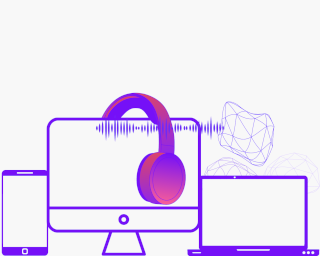
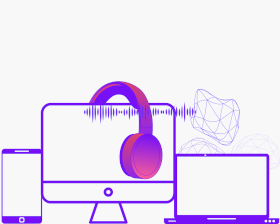
Update

diff --git a/index.html b/index.html
@@ -20,15 +20,21 @@
 
 				<nav class="nav1">
 						<ul>
-							<li class="active">
-								<a href="#full-header">Início</a>
-							</li>
-							<li>
-								<a href="#container-sobre">Sobre</a>
-							</li>
-							<li>
-								<a href="#container-portfolio">Portfólio</a>
-							</li>
+							<a href="#full-header">
+								<li>
+									Início
+								</li>
+							</a>
+							<a href="#container-sobre">
+								<li>
+									Sobre
+								</li>
+							</a>
+							<a href="#container-portfolio">
+								<li>
+									Portfólio
+								</li>
+							</a>
 						</ul>
 
 						<input id="menu-toggle" type="checkbox" />
@@ -36,15 +42,22 @@
 						<div class='menu-button'></div>
 					</label>
 						<ul class="menu">
-						<li>
-							<a href="#full-header">Início</a>
-						</li>
-						<li>
-							<a href="#container-sobre">Sobre</a>
-						</li>
-						<li>
-							<a href="#container-portfolio">Portfólio</a>
-						</li>
+						<a href="#full-header">
+							<li>
+								Início
+							</li>
+						</a>
+						<a href="#container-sobre">
+							<a href="#container-sobre">	
+							<li>
+								Sobre
+							</li>
+						</a>
+						<a href="#container-portfolio"></a>
+							<li>
+								Portfólio
+							</li>
+						</a>
 						</ul>
 				</nav>
 		</header>
@@ -57,13 +70,13 @@
 		</div>
 		<div class="div-img-principal">
 			<picture class="divImgTop">
-				<source media="(max-width: 500px)" srcset="images/dev-cortada-mobile.png" type="image/jpg">
+				<source media="(max-width: 570px)" srcset="images/dev-cortada-mobile.png" type="image/jpg">
 				<img src="images/dev-cortada.png" alt="" class="imgTop">
 			</picture>
 		</div>
 		<div class="eletronicos">
 			<picture class="divImgTop">
-				<source media="(max-width: 570px)" srcset="images/eletronicos1-cortada.png" type="image/jpg">
+				<source media="(max-width: 650px)" srcset="images/eletronicos1-cortada.png" type="image/jpg">
 				<img src="images/eletronicos1.png" alt="" class="imgTop">
 			</picture>
 		</div>

diff --git a/styles/styles.css b/styles/styles.css
@@ -65,10 +65,9 @@ header nav ul li {
 	
 }
 
-header nav ul li a {
+header nav ul a {
 	text-decoration: none;
 	color: #7510F7;
-	font-size: 18px;
 }
 
 header nav ul li.menu-dropdown ul {
@@ -79,9 +78,6 @@ header nav ul li:hover{
 	background-color: #e9e9e9;
 }
 
-header nav ul li.active {
-	background-color: #e9e9e9;
-}
 
 .menu {
 	display: flex;
@@ -156,17 +152,7 @@ header nav ul li.active {
 	  display: flex;
 	  margin-right: 10px;
 	}
-	.menu {
-	  position: absolute;
-	  top: 0;
-	  margin-top: 40px;
-	  left: 0;
-	  flex-direction: column;
-	  width: 100%;
-	  justify-content: center;
-	  align-items: center;
-	  display: block;
-	}
+	
 	#menu-toggle ~ .menu li {
 	  height: 0;
 	  margin: 0;
@@ -250,11 +236,28 @@ header nav ul li.active {
 	header nav ul {
 		display: none;
 	}
+	.div-titulo h1 {
+		font-size: 54px;
+	}
+	.div-titulo span {
+		font-size: 24px;
+	}
+
+	.div-titulo {
+		margin-top: 20px;
+	}
+	
 }
+
+
 
 .eletronicos {
 	display: flex;
 	margin-top: 20px;
+}
+
+.eletronicos .divImgTop img {
+	margin-bottom: -5px;
 }
 
 #container-sobre {
@@ -499,6 +502,10 @@ header nav ul li.active {
 	display: flex;
 	flex-direction: row;
 	justify-content: center;
+}
+
+.coluna-icons a {
+	text-decoration: none;
 }
 
 .circulo-icon {
